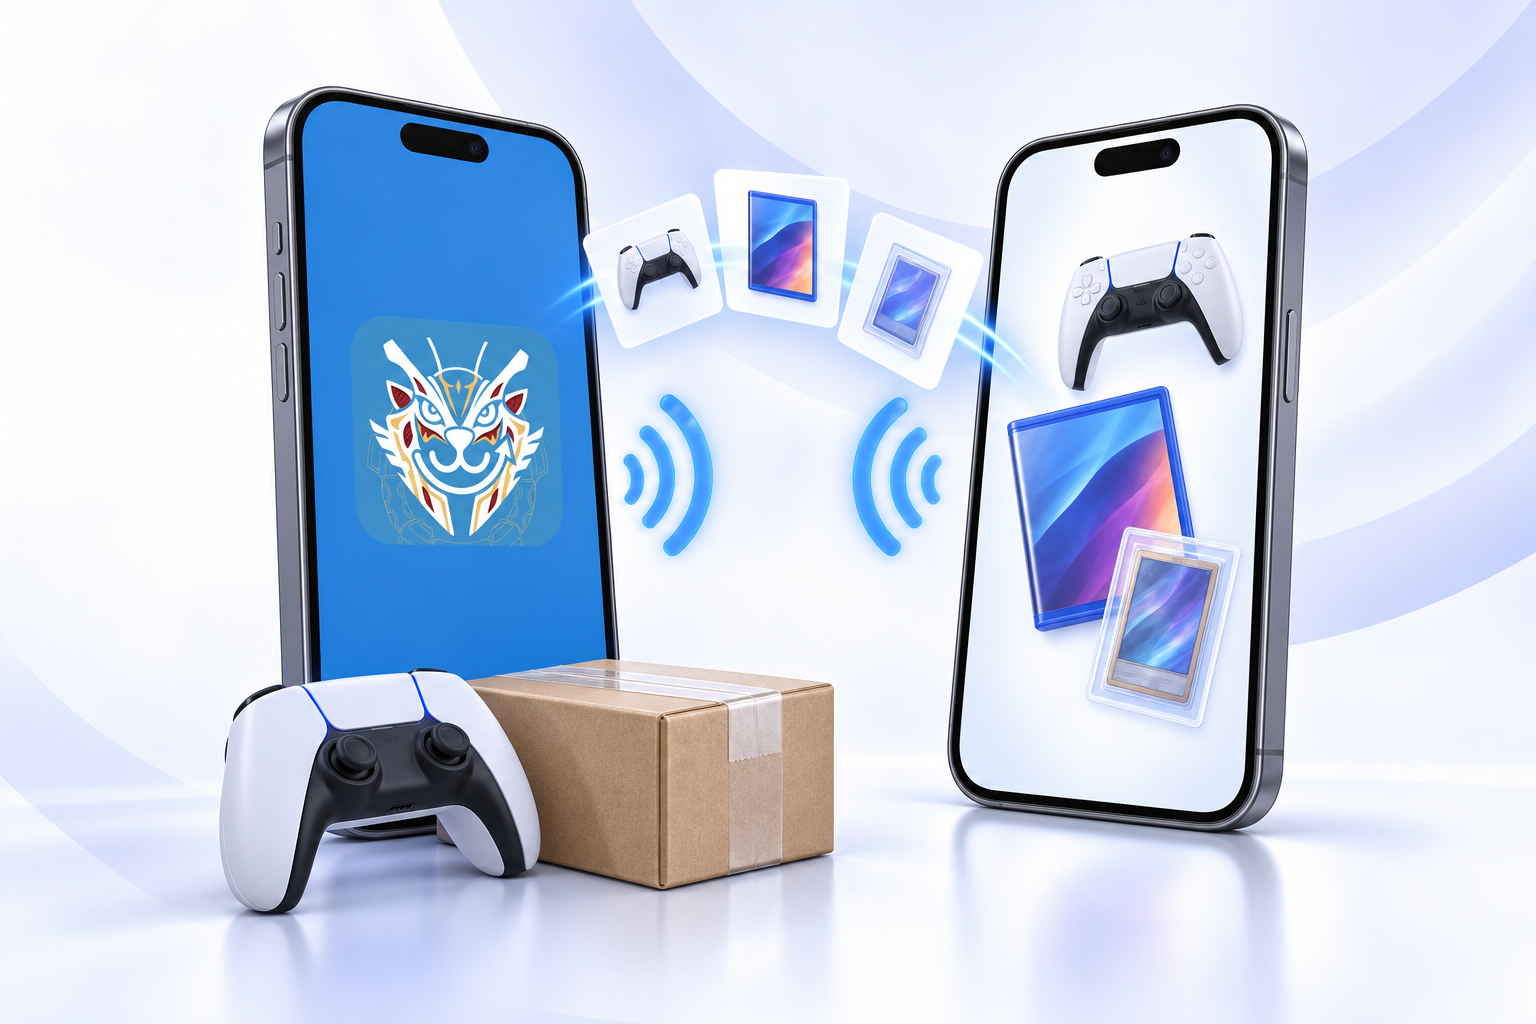
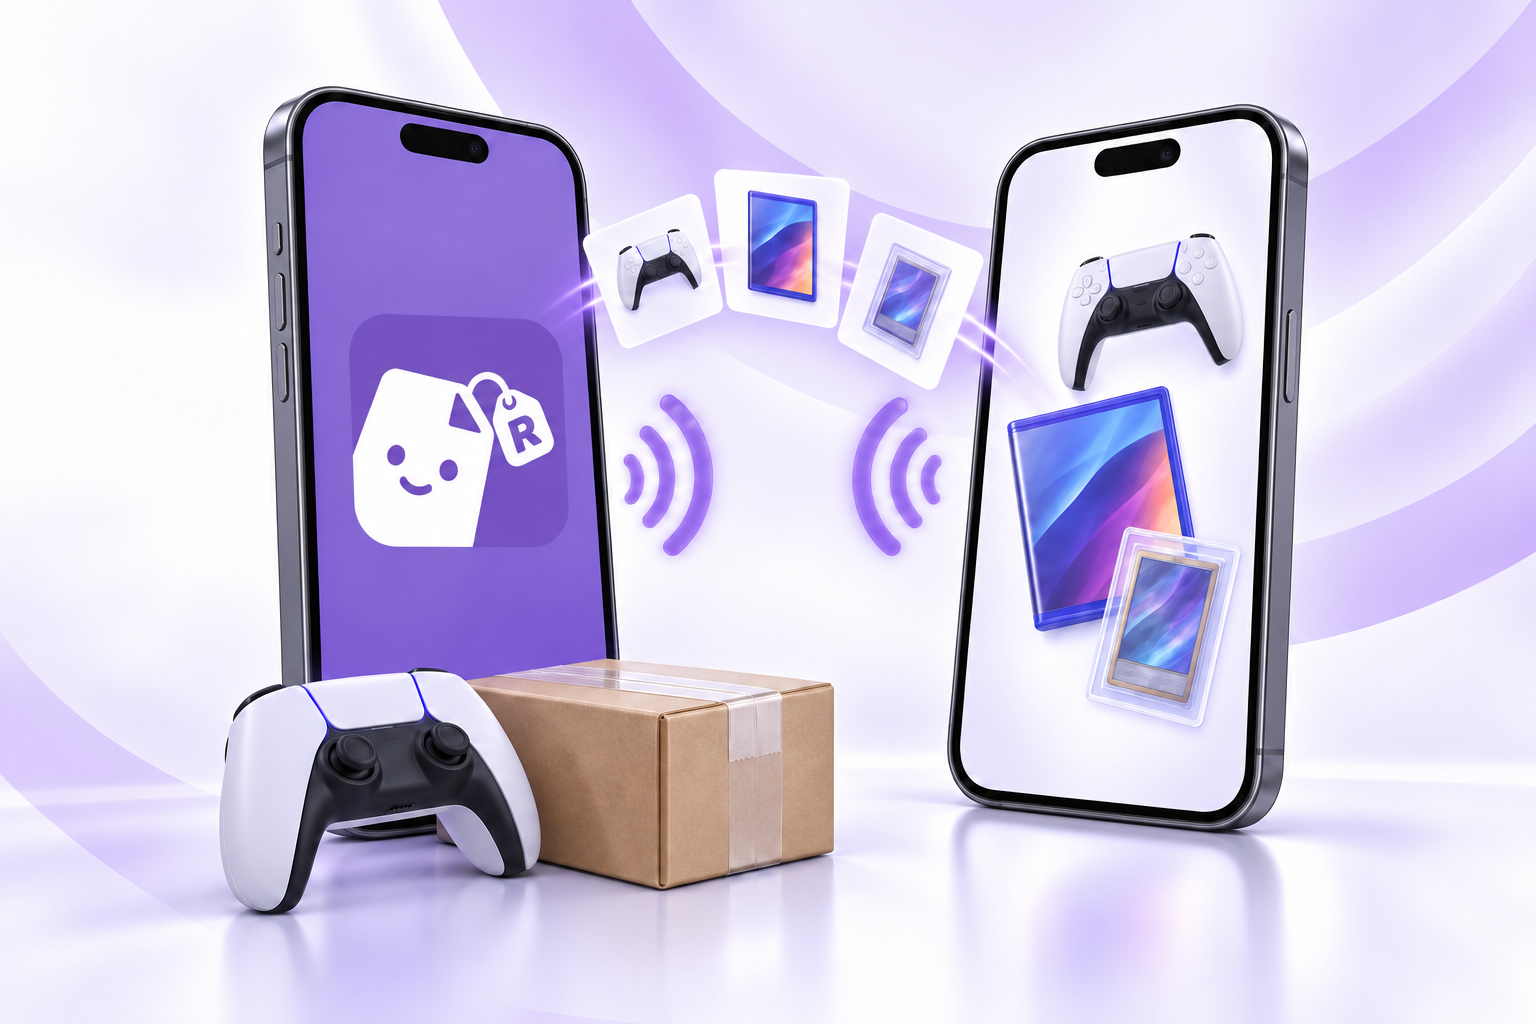
Refresh H5 with purple peeking-page RazeTag branding

diff --git a/index.html b/index.html
@@ -4,25 +4,31 @@
   <meta charset="utf-8">
   <meta name="viewport" content="width=device-width, initial-scale=1">
   <meta name="color-scheme" content="light">
-  <meta name="theme-color" content="#f7f8fc">
+  <meta name="theme-color" content="#f8f6fc">
   <meta name="description" content="Meet RazeTag: your local-first resale companion for inventory, bundles, sales, budgets, and sharing selected items with nearby devices.">
   <meta property="og:type" content="website">
   <meta property="og:title" content="RazeTag — Capture. Track. Resell smarter.">
   <meta property="og:description" content="Less admin, more clarity. Organize your stock, follow your sales, and share selected items over local Wi-Fi.">
   <meta property="og:url" content="https://remyo.github.io/razetag_h5/">
-  <meta property="og:image" content="https://remyo.github.io/razetag_h5/images/razetag-promo.png">
+  <meta property="og:image" content="https://remyo.github.io/razetag_h5/images/razetag-promo.png?v=peeking-20260914">
   <meta property="og:image:width" content="1536">
   <meta property="og:image:height" content="1024">
-  <meta property="og:image:alt" content="RazeTag promotional illustration of two nearby phones sharing product images.">
+  <meta property="og:image:alt" content="Promotional illustration of two nearby phones sharing product images, with RazeTag's purple peeking smiling-page and R-tag logo.">
+  <meta name="twitter:card" content="summary_large_image">
+  <meta name="twitter:title" content="RazeTag — Capture. Track. Resell smarter.">
+  <meta name="twitter:description" content="Less admin, more clarity. Organize your stock, follow your sales, and share selected items over local Wi-Fi.">
+  <meta name="twitter:image" content="https://remyo.github.io/razetag_h5/images/razetag-promo.png?v=peeking-20260914">
+  <meta name="twitter:image:alt" content="Promotional illustration of two nearby phones sharing product images, with RazeTag's purple peeking smiling-page and R-tag logo.">
   <title>RazeTag — Capture. Track. Resell smarter.</title>
-  <link rel="icon" type="image/png" href="images/razetag-logo.png">
+  <link rel="icon" type="image/png" href="images/razetag-logo.png?v=peeking-20260914">
+  <link rel="apple-touch-icon" href="images/razetag-logo.png?v=peeking-20260914">
   <style>
-    :root { --ink:#151b30; --muted:#60697e; --blue:#365cde; --blue-dark:#2748bc; --line:#e4e7f0; --paper:#fff; --canvas:#f7f8fc; --radius:12px; }
+    :root { --ink:#151b30; --muted:#60697e; --accent:#7654c5; --accent-dark:#6040aa; --line:#e7e2ef; --paper:#fff; --canvas:#f8f6fc; --radius:12px; }
     * { box-sizing:border-box; }
     html { scroll-padding-top:110px; }
     body { margin:0; background:var(--canvas); color:var(--ink); font:16px/1.65 -apple-system,BlinkMacSystemFont,"Segoe UI",sans-serif; -webkit-font-smoothing:antialiased; }
     a { color:inherit; text-decoration:none; -webkit-tap-highlight-color:transparent; }
-    a:focus-visible { outline:3px solid #7394ff; outline-offset:5px; }
+    a:focus-visible { outline:3px solid var(--accent); outline-offset:5px; }
     h1,h2,h3,p,figure { margin:0; }
     h1,h2,h3 { text-wrap:balance; }
     img { display:block; max-width:100%; }
@@ -31,34 +37,34 @@
     .symbols { position:absolute; width:0; height:0; overflow:hidden; }
     .skip { position:fixed; top:-100px; left:20px; z-index:30; padding:10px 18px; border-radius:8px; background:white; }
     .skip:focus { top:12px; }
-    .topbar { position:sticky; top:0; z-index:10; background:#f7f8fcf5; border-bottom:1px solid var(--line); }
+    .topbar { position:sticky; top:0; z-index:10; background:#f8f6fcf5; border-bottom:1px solid var(--line); }
     .topbar-inner { min-height:80px; display:flex; align-items:center; justify-content:space-between; gap:24px; padding-block:12px; }
     .brand { display:inline-flex; align-items:center; gap:10px; font-size:21px; letter-spacing:-.7px; font-weight:750; }
-    .brand img { width:36px; height:36px; border-radius:10px; }
+    .brand img { width:36px; height:36px; object-fit:cover; flex-shrink:0; border-radius:10px; }
     .nav { display:flex; align-items:center; gap:8px; font-size:14px; font-weight:600; }
     .nav a { padding:9px 14px; border-radius:8px; }
-    .nav a:hover { background:#e9edf8; }
-    .nav .nav-feature { color:var(--blue); background:#eaf0ff; }
+    .nav a:hover { background:#efeaf8; }
+    .nav .nav-feature { color:var(--accent); background:#efeaf8; }
     .hero { display:grid; grid-template-columns:minmax(0,.95fr) minmax(0,1.05fr); align-items:center; gap:40px; padding-block:80px 62px; }
-    .eyebrow { display:flex; align-items:center; gap:8px; color:var(--blue); font-size:12px; font-weight:700; letter-spacing:.13em; text-transform:uppercase; }
+    .eyebrow { display:flex; align-items:center; gap:8px; color:var(--accent); font-size:12px; font-weight:700; letter-spacing:.13em; text-transform:uppercase; }
     .eyebrow::before { content:""; width:6px; height:6px; border-radius:50%; background:currentColor; flex:none; }
     h1 { margin-top:20px; font-size:clamp(3.2rem,5.2vw,4.6rem); letter-spacing:-.06em; line-height:1.08; font-weight:750; }
-    h1 span { color:var(--blue); }
+    h1 span { color:var(--accent); }
     .hero-copy>p { margin-top:24px; color:var(--muted); max-width:435px; font-size:17px; line-height:1.8; }
     .hero-actions { margin-top:28px; display:flex; gap:10px; flex-wrap:wrap; }
     .button { display:inline-flex; justify-content:center; align-items:center; gap:9px; min-height:44px; border:1px solid var(--line); border-radius:9px; padding:10px 17px; background:white; font-size:14px; font-weight:650; }
     .button .icon { width:17px; height:17px; }
-    .button:hover { border-color:#a9b8e5; background:#edf1ff; }
-    .button.primary { color:white; background:var(--blue); border-color:var(--blue); }
-    .button.primary:hover { background:var(--blue-dark); }
+    .button:hover { border-color:#bca8de; background:#f3eefa; }
+    .button.primary { color:white; background:var(--accent); border-color:var(--accent); }
+    .button.primary:hover { background:var(--accent-dark); border-color:var(--accent-dark); }
     .hero-facts { display:flex; flex-direction:column; gap:6px; margin-top:22px; font-size:12px; color:var(--muted); }
     .hero-facts span { display:flex; align-items:center; gap:7px; }
     .hero-facts .icon { width:15px; height:15px; color:#2b876e; }
     .hero-art { min-width:0; }
-    .hero-art img { width:100%; height:auto; border-radius:20px; border:1px solid #e3e8f8; background:white; }
+    .hero-art img { width:100%; height:auto; border-radius:20px; border:1px solid #e8e0f3; background:white; }
     .hero-art figcaption { text-align:center; margin-top:12px; font-size:10px; letter-spacing:.015em; color:var(--muted); }
     .category-strip { border-top:1px solid var(--line); border-bottom:1px solid var(--line); padding-block:22px; display:flex; align-items:center; justify-content:space-between; flex-wrap:wrap; gap:14px 24px; font-size:13px; font-weight:550; color:var(--muted); }
-    .category-strip span:last-child { color:var(--blue); }
+    .category-strip span:last-child { color:var(--accent); }
     .features { padding-block:82px; }
     .section-head { display:flex; align-items:flex-end; justify-content:space-between; gap:30px; margin-bottom:30px; }
     h2 { font-size:clamp(2rem,3.4vw,2.75rem); letter-spacing:-.045em; line-height:1.18; margin-top:13px; font-weight:700; }
@@ -66,7 +72,7 @@
     .feature-grid { display:grid; grid-template-columns:repeat(3,minmax(0,1fr)); gap:16px; }
     .feature { padding:26px; background:white; border:1px solid var(--line); border-radius:var(--radius); }
     .feature-top { display:flex; justify-content:space-between; align-items:center; margin-bottom:23px; }
-    .icon-tile { display:grid; place-items:center; width:42px; height:42px; border-radius:11px; color:var(--blue); background:#eef2ff; }
+    .icon-tile { display:grid; place-items:center; width:42px; height:42px; border-radius:11px; color:var(--accent); background:#f0ebf9; }
     .feature:nth-child(2) .icon-tile { color:#187865; background:#eaf6f2; }
     .feature:nth-child(3) .icon-tile { color:#96611a; background:#fff5e5; }
     .feature:nth-child(4) .icon-tile { color:#9760b4; background:#f6edf9; }
@@ -75,27 +81,27 @@
     .feature-number { font-size:12px; font-variant-numeric:tabular-nums; color:#81899b; }
     h3 { font-size:18px; font-weight:650; line-height:1.4; letter-spacing:-.025em; }
     .feature p { margin-top:10px; color:var(--muted); font-size:14px; line-height:1.75; }
-    .sharing { background:#2e51cc; color:white; border-radius:18px; padding:48px; }
+    .sharing { background:var(--accent-dark); color:white; border-radius:18px; padding:48px; }
     .sharing-top { display:grid; grid-template-columns:minmax(0,1fr) minmax(0,1fr); gap:36px; align-items:center; }
-    .sharing .eyebrow { color:#d1dcff; }
+    .sharing .eyebrow { color:#e8def7; }
     .sharing h2 { font-size:clamp(2.3rem,4vw,3.25rem); }
-    .sharing-copy>p { margin-top:20px; color:#e2e9ff; font-size:15px; max-width:410px; }
+    .sharing-copy>p { margin-top:20px; color:#f2ebff; font-size:15px; max-width:410px; }
     .sharing-tags { display:flex; flex-wrap:wrap; gap:8px; margin-top:20px; }
-    .sharing-tags span { border:1px solid #ffffff40; background:#ffffff0c; border-radius:7px; padding:4px 9px; font-size:11px; color:#eef2ff; }
+    .sharing-tags span { border:1px solid #ffffff40; background:#ffffff0c; border-radius:7px; padding:4px 9px; font-size:11px; color:#f5efff; }
     .device-pair { display:flex; gap:14px; align-items:center; justify-content:center; padding:24px 8px; }
     .device { background:#ffffff10; border:1px solid #ffffff40; border-radius:20px; width:130px; min-height:179px; padding:22px 10px 16px; display:flex; flex-direction:column; align-items:center; justify-content:center; gap:18px; }
-    .device img { width:52px; height:52px; border-radius:12px; }
-    .device span { font-size:12px; color:#e1e9ff; }
-    .transfer { display:flex; flex-direction:column; align-items:center; gap:14px; color:#d1e0ff; }
+    .device img { width:52px; height:52px; object-fit:cover; flex-shrink:0; border-radius:12px; }
+    .device span { font-size:12px; color:#f2ebff; }
+    .transfer { display:flex; flex-direction:column; align-items:center; gap:14px; color:#e8def7; }
     .transfer .icon { width:25px; height:25px; }
     .sharing-benefits { margin-top:36px; padding-top:30px; border-top:1px solid #ffffff33; display:grid; grid-template-columns:repeat(3,minmax(0,1fr)); gap:30px; }
     .sharing-benefits h3 { font-size:16px; }
-    .sharing-benefits p { margin-top:8px; color:#dde6ff; font-size:13px; }
-    .sharing-note { margin-top:27px; color:#d4dfff; font-size:11px; line-height:1.8; max-width:820px; }
+    .sharing-benefits p { margin-top:8px; color:#efe7fb; font-size:13px; }
+    .sharing-note { margin-top:27px; color:#e8def7; font-size:11px; line-height:1.8; max-width:820px; }
     .privacy { padding-block:82px; }
     .privacy-grid { display:grid; grid-template-columns:repeat(3,minmax(0,1fr)); gap:30px; margin-top:32px; }
     .privacy-card { border-top:1px solid var(--line); padding-top:22px; }
-    .privacy-card>.icon { color:var(--blue); margin-bottom:14px; }
+    .privacy-card>.icon { color:var(--accent); margin-bottom:14px; }
     .privacy-card h3 { font-size:17px; }
     .privacy-card p { color:var(--muted); font-size:14px; margin-top:10px; }
     .footer { border-top:1px solid var(--line); padding-block:28px 36px; display:flex; align-items:center; justify-content:space-between; gap:20px; }
@@ -103,7 +109,7 @@
     .footer .brand img { width:30px; height:30px; border-radius:8px; }
     .footer p { color:var(--muted); font-size:12px; margin-top:8px; }
     .footer>a { display:flex; align-items:center; gap:8px; color:var(--muted); font-size:12px; padding:10px 0 10px 10px; }
-    .footer>a:hover { color:var(--blue); }
+    .footer>a:hover { color:var(--accent); }
     .footer>a .icon { width:16px; height:16px; transform:rotate(-90deg); }
     @media(min-width:1400px) { .hero { gap:54px; } }
     @media(max-width:1020px) { .wrap { width:calc(100% - 48px); } .hero { gap:24px; padding-top:56px; } h1 { font-size:3.4rem; } .hero-copy>p { font-size:15px; } .feature-grid { grid-template-columns:repeat(2,minmax(0,1fr)); } .sharing { padding:34px; } .device-pair { gap:10px; padding-inline:0; } .device { width:108px; } }
@@ -130,7 +136,7 @@
 
   <header class="topbar">
     <div class="wrap topbar-inner">
-      <a class="brand" href="#top" aria-label="RazeTag home"><img src="images/razetag-logo.png" alt="" width="36" height="36">RazeTag</a>
+      <a class="brand" href="#top" aria-label="RazeTag home"><img src="images/razetag-logo.png?v=peeking-20260914" alt="" width="36" height="36">RazeTag</a>
       <nav class="nav" aria-label="Main navigation">
         <a href="#features">Features</a><a href="#privacy">Your data</a><a class="nav-feature" href="#sharing">Local sharing</a>
       </nav>
@@ -153,7 +159,7 @@
         </div>
       </div>
       <figure class="hero-art">
-        <img src="images/razetag-promo.png" alt="Promotional illustration of two nearby phones sharing product images, with the blue RazeTag logo on one phone." width="1536" height="1024" fetchpriority="high">
+        <img src="images/razetag-promo.png?v=peeking-20260914" alt="Promotional illustration of two nearby phones sharing product images, with RazeTag's purple peeking smiling-page and R-tag logo." width="1536" height="1024" fetchpriority="high">
         <figcaption>Promotional illustration · no personal inventory shown</figcaption>
       </figure>
     </section>
@@ -186,9 +192,9 @@
           <div class="sharing-tags"><span>Same Wi-Fi</span><span>No cloud relay</span></div>
         </div>
         <div class="device-pair" role="img" aria-label="Selected items transfer over local Wi-Fi from your RazeTag device to another RazeTag device.">
-          <div class="device"><img src="images/razetag-logo.png" width="52" height="52" alt=""><span>Your device</span></div>
+          <div class="device"><img src="images/razetag-logo.png?v=peeking-20260914" width="52" height="52" alt=""><span>Your device</span></div>
           <div class="transfer" aria-hidden="true"><svg class="icon"><use href="#i-wifi"/></svg><svg class="icon"><use href="#i-arrow"/></svg></div>
-          <div class="device"><img src="images/razetag-logo.png" width="52" height="52" alt=""><span>Their device</span></div>
+          <div class="device"><img src="images/razetag-logo.png?v=peeking-20260914" width="52" height="52" alt=""><span>Their device</span></div>
         </div>
       </div>
       <div class="sharing-benefits">
@@ -210,7 +216,7 @@
   </main>
 
   <footer class="wrap footer">
-    <div><a class="brand" href="#top" aria-label="RazeTag home"><img src="images/razetag-logo.png" width="30" height="30" alt="">RazeTag</a><p>Capture. Track. Resell smarter.</p></div>
+    <div><a class="brand" href="#top" aria-label="RazeTag home"><img src="images/razetag-logo.png?v=peeking-20260914" width="30" height="30" alt="">RazeTag</a><p>Capture. Track. Resell smarter.</p></div>
     <a href="#top">Back to top<svg class="icon" aria-hidden="true"><use href="#i-arrow"/></svg></a>
   </footer>
 </body>

diff --git a/README.md b/README.md
@@ -5,14 +5,19 @@ The public promotional page for RazeTag, a local-first resale companion.
 ## Public files
 
 - `index.html` — feature overview, local-sharing highlight, and inline styles.
-- `images/razetag-logo.png` — the app logo.
-- `images/razetag-promo.png` — promotional illustration, not a live app screenshot.
+- `images/razetag-logo.png` — the purple peeking smiling-page and R-tag app logo.
+- `images/razetag-promo.png` — matching promotional illustration, not a live app screenshot.
 - `.nojekyll` — serve these static files without Jekyll processing.
 
 The detailed guide and its demonstration screenshots are intentionally excluded
 from the current public page. Do not add inventory databases, backup files,
 private guide copies, pairing codes, or personal product photos to this repository.
 This page does not connect to anyone's inventory.
+
+The page uses the approved purple branding (`#7654C5`, with `#6040AA` for darker
+accents). All logo and promotional-image URLs use `?v=peeking-20260914` so browsers
+and social crawlers can fetch the new artwork. Previously shared social previews
+may need to be recrawled before they display the update.
 
 ## Preview
 
